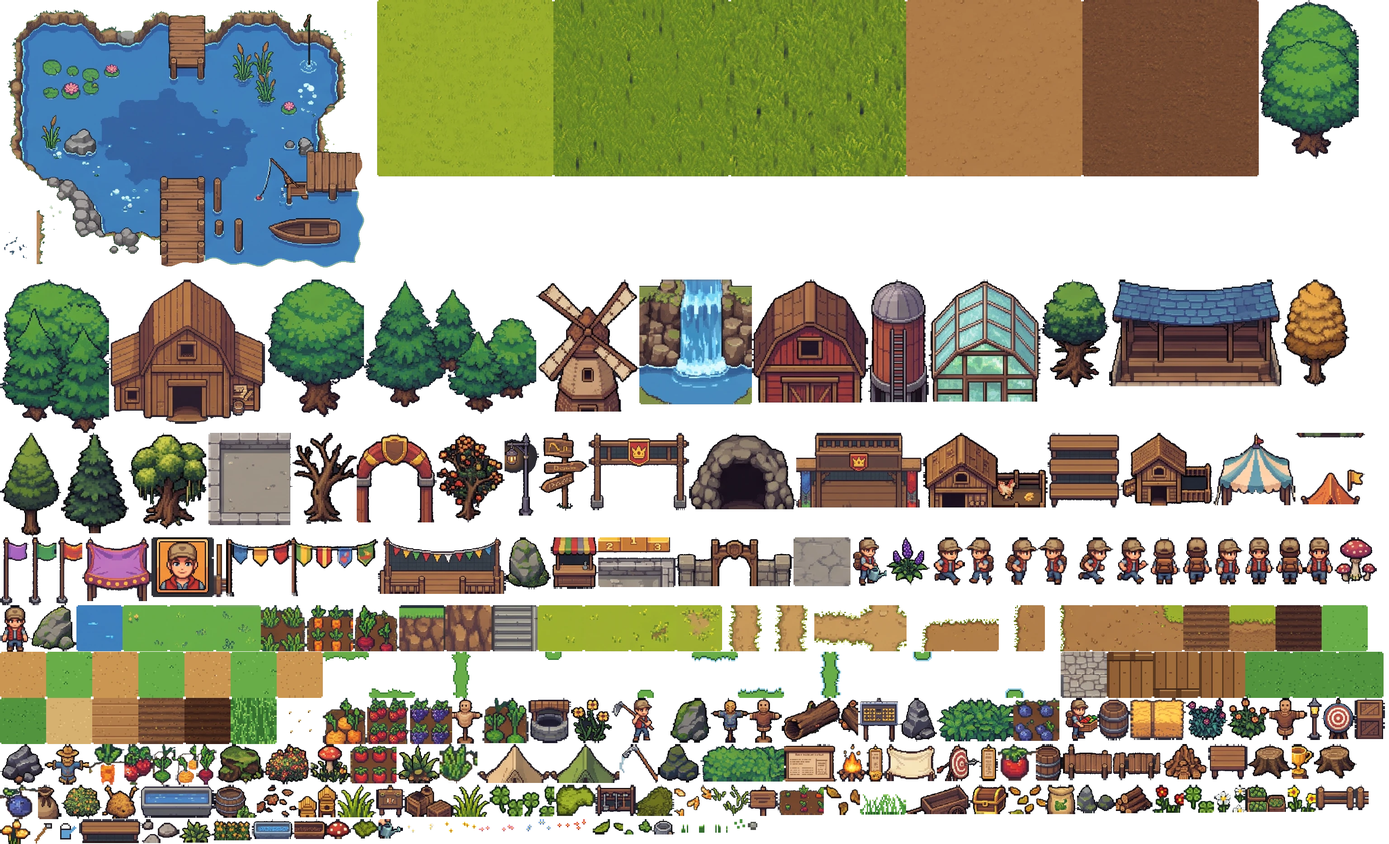
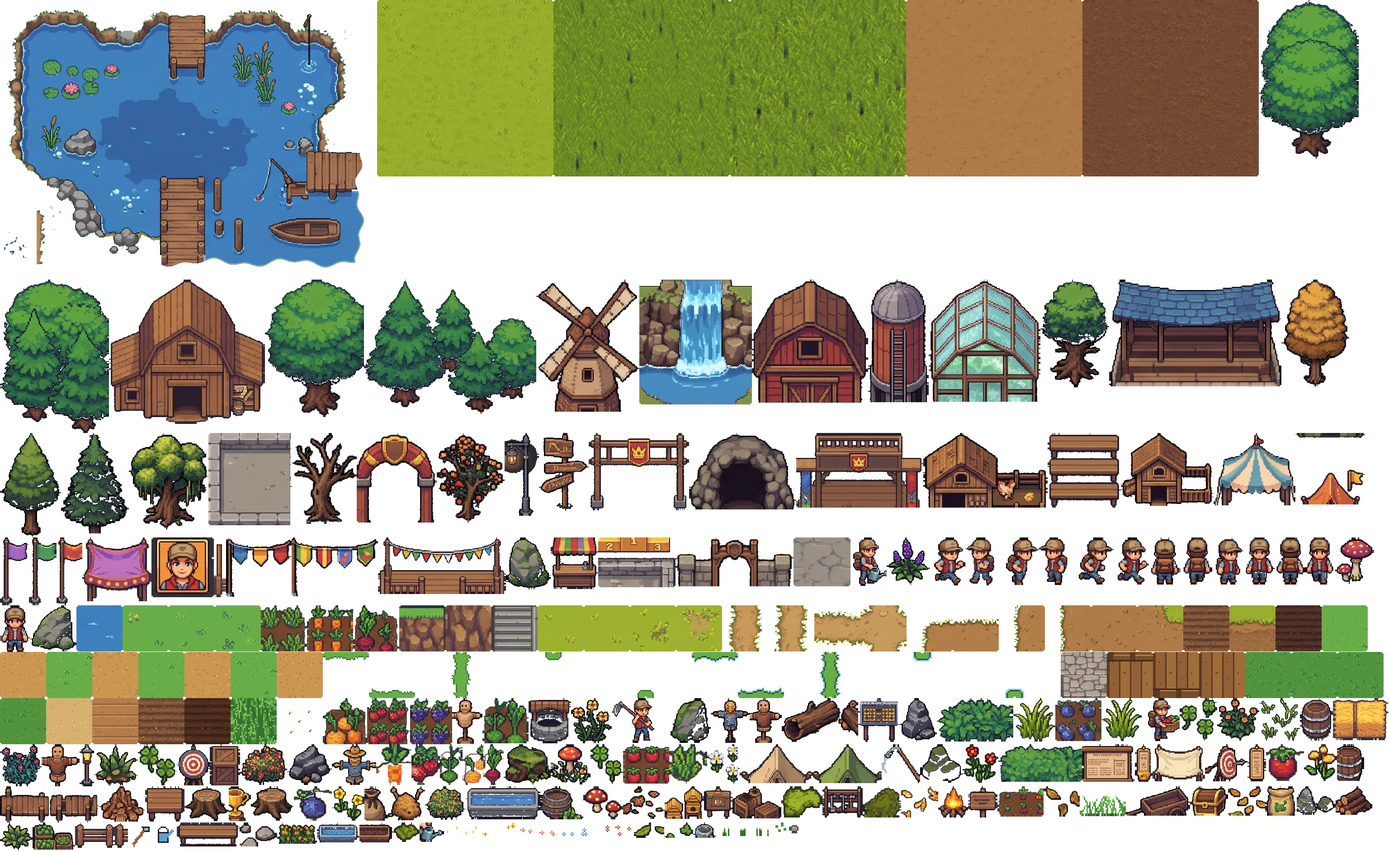
Cắt lại toàn bộ hoa, lá, cỏ trên bản đồ
- Hoa, bụi hoa, dương xỉ, cỏ ba lá, búi cỏ, mầm cây, nấm được cắt lại theo
  đúng khung từng món trong sheet 2 và sheet 4 (dò tự động vùng có hình):
  hết bị lẹm cạnh, hết dính nền xám bên trong lá
- Bỏ lá rụng / rêu / sỏi rải trên cỏ và hiệu ứng lá rơi dạng ô vuông
- Thêm vài khóm hoa đặt có chủ đích trước nhà và quanh bờ ao
- Không dùng ảnh trong picture.7z (là tài nguyên của Stardew Valley)

Claude-Session: https://claude.ai/code/session_01BbaPnx3cHQqz9kHRAFFL9w

diff --git a/shared/maps/farm.ts b/shared/maps/farm.ts
@@ -169,6 +169,8 @@ export function buildFarm(): GameMap {
   o('seed_bag', 8.6, 7);          // seed shop
   o('flower_bush_r', 3.2, 7.3);
   o('flowers_y', 7, 5.9);
+  o('flowers_o', 3.2, 5.6);
+  o('flowers_lav', 6.8, 4.9);
   o('tree_fruit', 10.2, 4.4);
   o('bench', 9.8, 6.6);
   reserve(2, 2, 11, 7);
@@ -191,6 +193,9 @@ export function buildFarm(): GameMap {
   // --- fish pond (south-east): painted scene from the user's pond sheet
   const scenes: MapObject[] = [{ s: 'pond_scene', x: 18.6, y: 16.3 }];
   o('bench', 15, 9.4);
+  o('flowers_lav', 14, 10.4);
+  o('flowers_o', 16.4, 9.6);
+  o('flower_bush_t', 22.2, 10.6);
   o('beehives', 21.2, 9.4);
   o('signpost', 13.6, 15.4);
   o('signpost', 22.4, 7.2);
@@ -217,15 +222,15 @@ export function buildFarm(): GameMap {
   for (let y = 0; y < H; y++) for (let x = 0; x < W; x++) if (border(x, y) <= 1) placeTree(pick(TREES), x, y);
 
   // --- small greenery: dense in the forest strip, sparse inside
-  const SMALLS = ['flowers_o', 'flowers_y', 'flower_bush_y', 'flower_bush_r', 'bush_a', 'rock_s1', 'stump', 'mushroom'];
+  const SMALLS = ['flowers_o', 'flowers_y', 'flowers_lav', 'flower_bush_y', 'flower_bush_r', 'flower_bush_t', 'fern', 'd_mushroom'];
   for (let y = 0; y < H; y++)
     for (let x = 0; x < W; x++)
       if (free(x, y) && r() < (border(x, y) <= 2 ? 0.5 : 0.06)) { o(pick(SMALLS), x + (r() - 0.5) * 0.3, y, r() < 0.5); reserve(x, y, x, y); }
 
   // --- ground details from the user's sheet (flowers, clover, leaves, pebbles)
   const DECALS = ['d_flower_y', 'd_flower_w', 'd_flower_r', 'd_flower_o', 'd_clover', 'd_clover2', 'd_clover3',
-    'd_clover_s', 'd_sprouts', 'd_tuft', 'd_tuft2', 'd_leaves_g', 'd_leaves_o', 'd_pebbles', 'd_moss'];
-  for (let i = 0; i < 110; i++) {
+    'd_sprouts', 'd_tuft', 'd_tuft2', 'd_tuft', 'd_tuft2'];
+  for (let i = 0; i < 70; i++) {
     const x = r() * W, y = r() * H;
     if (get(Math.floor(x), Math.floor(y)) !== G.Grass) continue;
     decals.push({ s: pick(DECALS), x: x - 0.5, y: y + 0.3 });

diff --git a/client/src/effects.ts b/client/src/effects.ts
@@ -181,7 +181,7 @@ export class Effects {
       if (rnd() < dt * 0.05) { f.hx += (rnd() - 0.5) * 60; f.hy += (rnd() - 0.5) * 40; }
     }
     // leaves drifting down from trees
-    if ((this.nextLeaf -= dt) <= 0 && this.trees.length) {
+    if (false && (this.nextLeaf -= dt) <= 0 && this.trees.length) {
       this.nextLeaf = 0.5 + rnd() * 0.9;
       const tr = this.trees[Math.floor(rnd() * this.trees.length)];
       this.leaves.push({ x: tr.x + (rnd() - 0.5) * 24, y: tr.y - tr.h * (0.5 + rnd() * 0.3), vx: 6 + rnd() * 8, t: 0,

diff --git a/tools/sprites.py b/tools/sprites.py
@@ -46,14 +46,14 @@ SPRITES = {
     'log':            ('s2', 1515, 1130, 1725, 1250, 'obj'),
     'mushroom':       ('s2', 1805, 1000, 1915, 1110, 'obj'),
     'mushrooms':      ('s2', 1795, 1120, 1920, 1250, 'obj'),
-    'flower_bush_y':  ('s2', 980, 1270, 1105, 1385, 'obj'),
-    'flower_bush_r':  ('s2', 1105, 1265, 1245, 1385, 'obj'),
-    'flower_bush_t':  ('s2', 1240, 1270, 1375, 1385, 'obj'),
-    'flowers_o':      ('s2', 1380, 1270, 1505, 1385, 'obj'),
-    'flowers_lav':    ('s2', 1520, 1260, 1650, 1390, 'obj'),
-    'flowers_y':      ('s2', 1660, 1260, 1785, 1385, 'obj'),
-    'fern':           ('s2', 978, 1405, 1085, 1495, 'obj'),
-    'plant':          ('s2', 1105, 1395, 1225, 1505, 'obj'),
+    'flower_bush_y':  ('s2', 980, 1284, 1102, 1388, 'obj'),
+    'flower_bush_r':  ('s2', 1100, 1261, 1238, 1393, 'obj'),
+    'flower_bush_t':  ('s2', 1240, 1264, 1370, 1388, 'obj'),
+    'flowers_o':      ('s2', 1364, 1263, 1506, 1392, 'obj'),
+    'flowers_lav':    ('s2', 1520, 1254, 1647, 1394, 'obj'),
+    'flowers_y':      ('s2', 1658, 1255, 1779, 1390, 'obj'),
+    'fern':           ('s2', 989, 1430, 1091, 1522, 'obj'),
+    'plant':          ('s2', 1106, 1395, 1235, 1522, 'obj'),
     'pebbles':        ('s2', 1400, 1405, 1505, 1505, 'obj'),
     'rock_s1':        ('s2', 1525, 1405, 1645, 1510, 'obj'),
     'rock_s2':        ('s2', 1660, 1400, 1775, 1515, 'obj'),
@@ -156,25 +156,25 @@ SPRITES = {
     'pond_scene':     ('s3', 37, 88, 918, 726, 'scene', 1.1),
 
     # ---- ground details (sheet 4), baked into the ground layer
-    'd_flower_y':     ('s4', 1832, 1064, 1902, 1186, 'obj'),
-    'd_flower_w':     ('s4', 1952, 1064, 2032, 1182, 'obj'),
-    'd_flower_r':     ('s4', 2082, 1064, 2162, 1182, 'obj'),
+    'd_flower_y':     ('s4', 1820, 1106, 1922, 1214, 'obj'),
+    'd_flower_w':     ('s4', 1942, 1092, 2046, 1235, 'obj'),
+    'd_flower_r':     ('s4', 2075, 1104, 2181, 1232, 'obj'),
     'd_clover_s':     ('s4', 2215, 1064, 2292, 1152, 'obj'),
-    'd_flower_o':     ('s4', 2342, 1064, 2432, 1172, 'obj'),
-    'd_clover':       ('s4', 2475, 1064, 2552, 1182, 'obj'),
+    'd_flower_o':     ('s4', 2337, 1092, 2437, 1225, 'obj'),
+    'd_clover':       ('s4', 2468, 1099, 2566, 1223, 'obj'),
     'd_moss':         ('s4', 2588, 1064, 2692, 1162, 'obj'),
-    'd_clover2':      ('s4', 1822, 1236, 1902, 1322, 'obj'),
-    'd_clover3':      ('s4', 1942, 1236, 2032, 1322, 'obj'),
-    'd_mushroom':     ('s4', 2082, 1232, 2177, 1302, 'obj'),
+    'd_clover2':      ('s4', 1940, 1229, 2058, 1355, 'obj'),
+    'd_clover3':      ('s4', 1800, 1234, 1924, 1361, 'obj'),
+    'd_mushroom':     ('s4', 2069, 1244, 2187, 1359, 'obj'),
     'd_leaves_o':     ('s4', 2207, 1236, 2302, 1322, 'obj'),
     'd_leaves_y':     ('s4', 2337, 1236, 2432, 1322, 'obj'),
-    'd_sprouts':      ('s4', 2467, 1236, 2562, 1322, 'obj'),
+    'd_sprouts':      ('s4', 2436, 1226, 2586, 1360, 'obj'),
     'd_moss2':        ('s4', 2588, 1236, 2702, 1322, 'obj'),
     'd_leaves_g':     ('s4', 1826, 1376, 1902, 1442, 'obj'),
     'd_leaves_b':     ('s4', 1946, 1376, 2042, 1462, 'obj'),
     'd_pebbles':      ('s4', 2082, 1382, 2182, 1452, 'obj'),
-    'd_tuft':         ('s4', 2217, 1366, 2312, 1462, 'obj'),
-    'd_tuft2':        ('s4', 2342, 1366, 2442, 1462, 'obj'),
+    'd_tuft':         ('s4', 2198, 1373, 2318, 1499, 'obj'),
+    'd_tuft2':        ('s4', 2316, 1372, 2449, 1499, 'obj'),
     'd_bush_moss':    ('s4', 2467, 1366, 2572, 1462, 'obj'),
 
     'pl_hoe':         ('s5', 280, 978, 535, 1208, 'obj', 0.52),

diff --git a/tools/build_assets.py b/tools/build_assets.py
@@ -64,7 +64,13 @@ def cut_object(sheet, box):
         if x < w - 1: q.append((x + 1, y))
         if y > 0: q.append((x, y - 1))
         if y < h - 1: q.append((x, y + 1))
-    drop_border_fragments(im, keep_only_big=(sheet == 's5'))
+    # background pockets enclosed by leaves (not reachable from the border)
+    for y in range(h):
+        for x in range(w):
+            p_ = px[x, y]
+            if p_[3] and is_bg(p_) and p_[2] > p_[1] + 6:
+                px[x, y] = (0, 0, 0, 0)
+    drop_border_fragments(im, keep_only_big=True)
     return im
 
 
